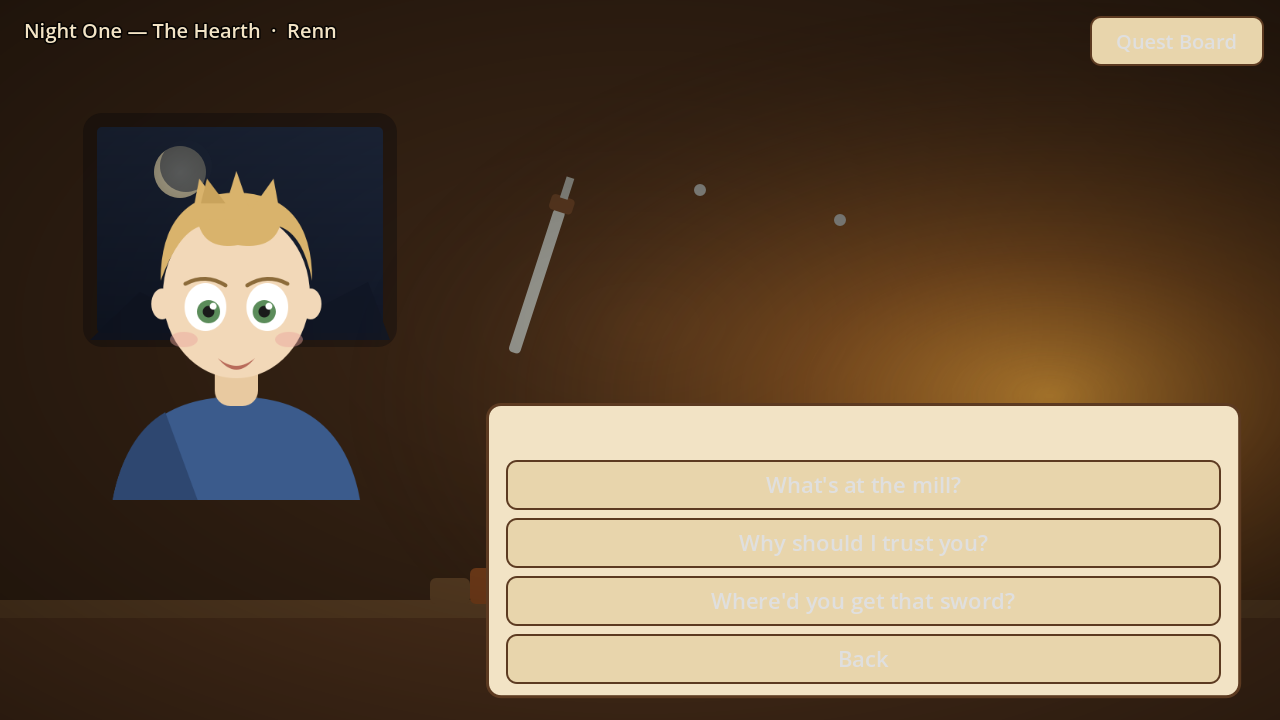
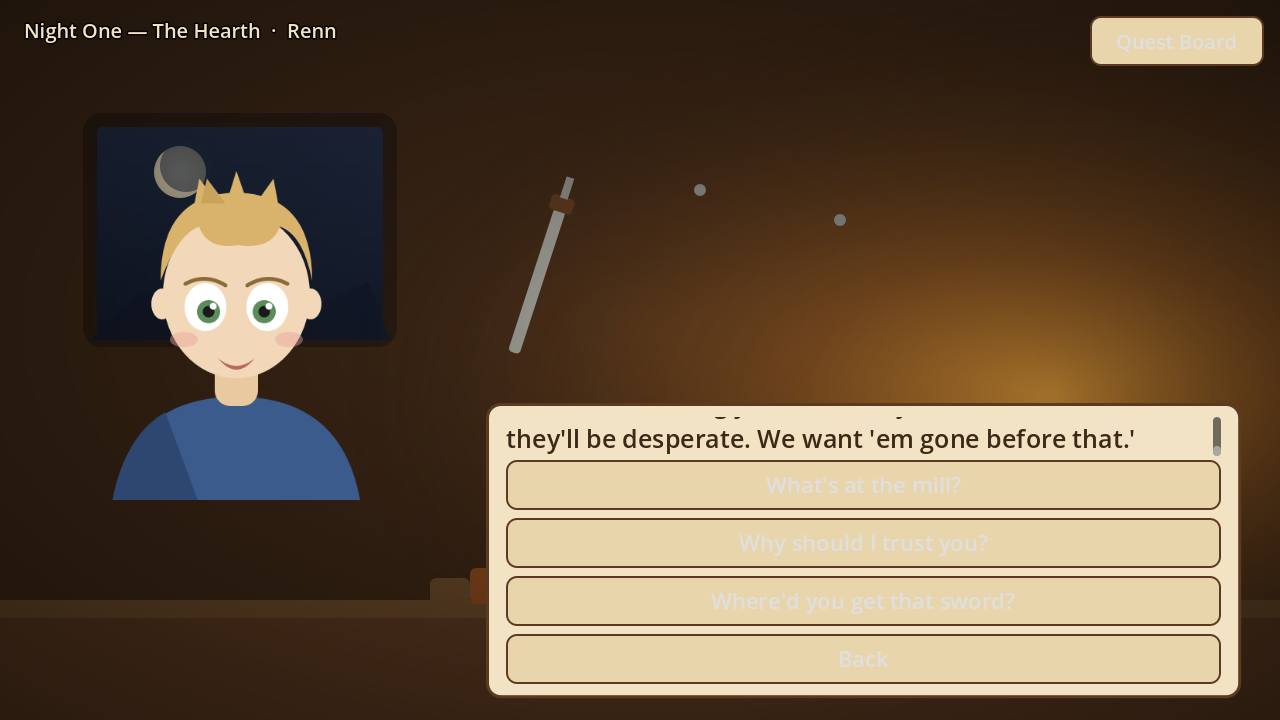
Night two at the inn: Grib, the mill's truth, and a fix for invisible dialogue text
- Grib arrives on night two as a full guest (intro, 6 pour reactions, talks).
  His arrival, dialogue, and the quest-board card react to the mill's
  night-one outcome: Renn's parley, Keld's peace, the woman's quiet, or
  nobody went (parley letter path).
- The mill quest card resolves on night two and locks once Grib is met.
- Night-two closing + Grib's return as a regular, with a quiet variant
  for the woman's dark mill.
- Demo extended to 19 shots covering the full two-evening arc.
- FIX: the dialogue RichTextLabel had zero height (no SIZE_EXPAND_FILL +
  fit_content), so ALL text was invisible in the running game and every
  screenshot. Pour/talk appends also never scrolled into view.
  Screenshots now show the actual dialogue.
- Resolved roadmap open question: goblin-mill is negotiation-first;
  combat is the dark outcome of neglect.
- Adds tests/night_two_smoke.gd, a headless harness that drives all four
  mill states through the real flow.

Changed region(s): [[0.4062, 0.5806, 0.875, 0.6417], [0.9375, 0.5806, 0.9688, 0.6417]]

diff --git a/docs/00-roadmap.md b/docs/00-roadmap.md
@@ -26,7 +26,7 @@ Everything needed to fully design The Last Inn before implementation begins.
 
 - Exact session count target for Act 1/2/3 (currently: ~10 / ~15 / open-ended, ~40-60 total)
 - How much player choice affects the endgame trial — candidate beats written, needs selection
-- The goblin-mill quest: confirm negotiation-first design vs. combat-first
+- ~~The goblin-mill quest: negotiation-first vs combat-first~~ — **Resolved** (concept prototype, night two): the mill is a parley. Combat is the dark outcome of neglect — the woman-in-grey's "done" shows it, and Grib's night-two arrival delivers the quest-truth lesson.
 - Length of the "Embers" mode — endless by design?
 - Whether the locked door's trial is a conversation (current design) or something else
 - Voice for narration (currently: no narrator — the game is in the room, not a booth)

diff --git a/DECISIONS.md b/DECISIONS.md
@@ -57,6 +57,7 @@ Considered:
 
 - **No random spawns** — every guest authored, with an arc.
 - First-night roster chosen to teach every system: Renn (judgment + returns), Keld (silence as information + the tower), the woman in grey (reading past performance + the caravan thread), Fenwick (comedy hiding wound + the same thread), Garrick (the relationship), Grib on night two (the quest-truth lesson).
+- **The mill quest (resolved in the concept prototype): negotiation-first.** The quest is never what the board says it is — combat is what happens when the player doesn't engage. Grib arrives on night two as the quest's truth; his arrival, his dialogue, and the board card all react to the mill's night-one outcome (Renn's parley / Keld's peace / the woman's quiet / nobody went).
 
 ## Open decisions (deferred)
 
